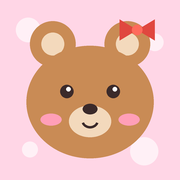
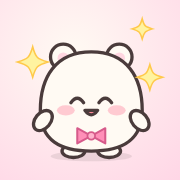
アイコンを追加・変更: ねこうさひろば=コケ、ゆめいろ=ココ
nekousa-hiroba に manifest.json と icons/ を足し、ホーム画面に追加したときコケの顔が出るように。
ゆめいろのアイコン（くま）をココの絵に差し替え。sw.js の CACHE を v22 に。

Claude-Session: https://claude.ai/code/session_01HD8nAdjzKvLAXLMERJovDj

diff --git a/nekousa-hiroba/index.html b/nekousa-hiroba/index.html
@@ -5,6 +5,10 @@
 <meta name="viewport" content="width=device-width, initial-scale=1, viewport-fit=cover">
 <meta name="apple-mobile-web-app-capable" content="yes">
 <meta name="apple-mobile-web-app-title" content="コケと ねこうさ">
+<link rel="manifest" href="manifest.json">
+<link rel="apple-touch-icon" href="icons/icon-180.png">
+<link rel="icon" href="icons/icon-192.png">
+<meta name="theme-color" content="#ffd9e6">
 <style>[hidden]{display:none!important}body{margin:0}</style>
 <title>コケと ねこうさひろば</title>
 <meta name="claude:viewport-fit-sides" content="cover">

diff --git a/sw.js b/sw.js
@@ -1,5 +1,5 @@
 // オフライン用: 一度ひらいたら ぜんぶ キャッシュして ネットなしでも あそべる
-const CACHE = 'yumeiro-v21';
+const CACHE = 'yumeiro-v22';
 const FILES = ['./', 'index.html', 'style.css', 'charset.js', 'icons.js', 'chars.js', 'mypics.js', 'buildings.js', 'field.js', 'app.js', 'english.js', 'catch.js', 'fishing.js', 'room.js', 'kanji.js', 'kanjidig.js', 'merge.js', 'juice.js', 'parking.js', 'manifest.json', 'icons/icon-180.png', 'icons/icon-192.png', 'icons/icon-512.png'];
 
 self.addEventListener('install', (e) => {

diff --git a/README.md b/README.md
@@ -13,7 +13,7 @@ HTML / CSS / JavaScript だけで できていて、ビルドは いりません
 
 ## ファイルを ふやすとき
 - `index.html` の script と `sw.js` の `FILES` に たす
-- `sw.js` の `CACHE`（いまは `yumeiro-v21`）の ばんごうを 1 あげる（あげないと iPhone に あたらしい版が とどかない）
+- `sw.js` の `CACHE`（いまは `yumeiro-v22`）の ばんごうを 1 あげる（あげないと iPhone に あたらしい版が とどかない）
 
 ## あそびかた
 - **タウン**：いきたい建物をタップすると、パートナーが歩いていって中に入ります。地面をタップするとそこまで歩きます。ほかの2人もうろうろしています
